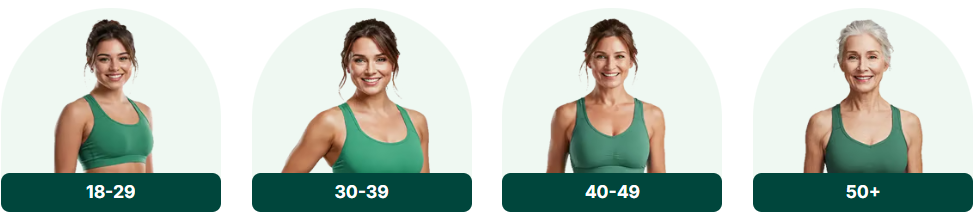
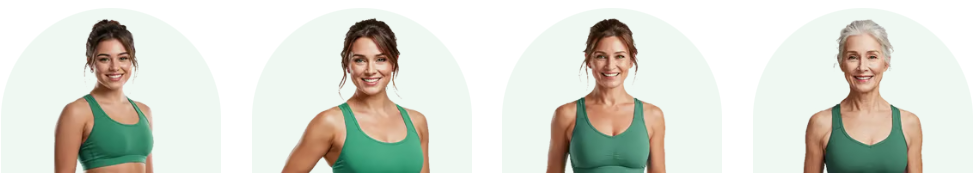
Changes

diff --git a/src/pages/AgeSelection.tsx b/src/pages/AgeSelection.tsx
@@ -56,24 +56,25 @@ const AgeSelection = () => {
 
         {/* Age Selection Grid */}
         <div className="w-full max-w-4xl">
-          <img
-            src={ageOptionsImage}
-            alt="Selecione sua faixa etária"
-            className="w-full h-auto"
-            useMap="#age-map"
-          />
-          
-          {/* Age Buttons overlaid on image */}
-          <div className="grid grid-cols-2 md:grid-cols-4 gap-4 mt-4">
-            {ageGroups.map((age) => (
-              <button
-                key={age.label}
-                onClick={() => navigate("/quiz-step-3")}
-                className="quiz-button justify-center"
-              >
-                {age.label}
-              </button>
-            ))}
+          <div className="relative">
+            <img
+              src={ageOptionsImage}
+              alt="Selecione sua faixa etária"
+              className="w-full h-auto"
+            />
+            
+            {/* Age Buttons positioned over each woman */}
+            <div className="absolute bottom-0 left-0 right-0 grid grid-cols-4 gap-2 px-2">
+              {ageGroups.map((age) => (
+                <button
+                  key={age.label}
+                  onClick={() => navigate("/quiz-step-3")}
+                  className="quiz-button justify-center py-2 px-4 text-sm"
+                >
+                  {age.label}
+                </button>
+              ))}
+            </div>
           </div>
         </div>
       </main>
